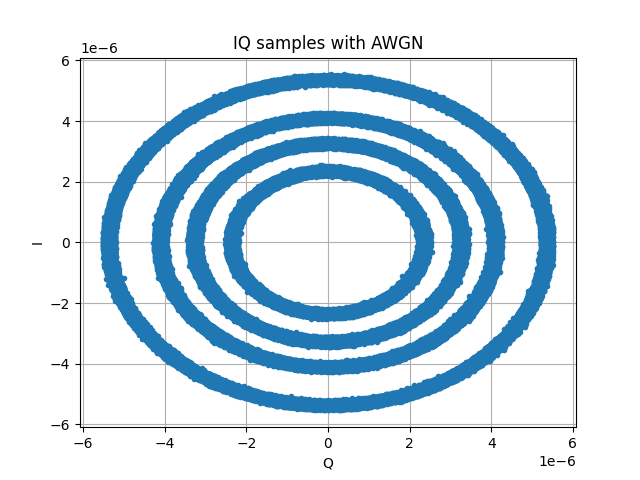
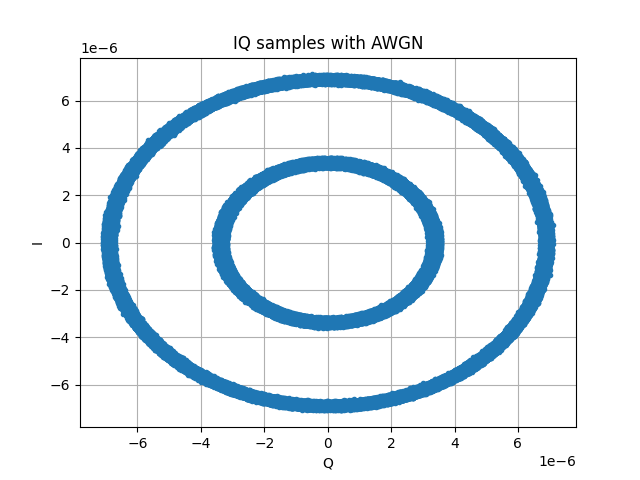
plot of iq boc

diff --git a/main.py b/main.py
@@ -242,6 +242,8 @@ if __name__ == '__main__':
         bit_counter += 1
 
 
+    iqPlot(boc_output, "IQ samples of the BOC(1,1)", len(boc_output)-1)
+
     signal = boc_output * ds_wave_list[:len(boc_output)]
 
     iqPlot(signal, "IQ samples with doppler shift", len(signal)-1)
